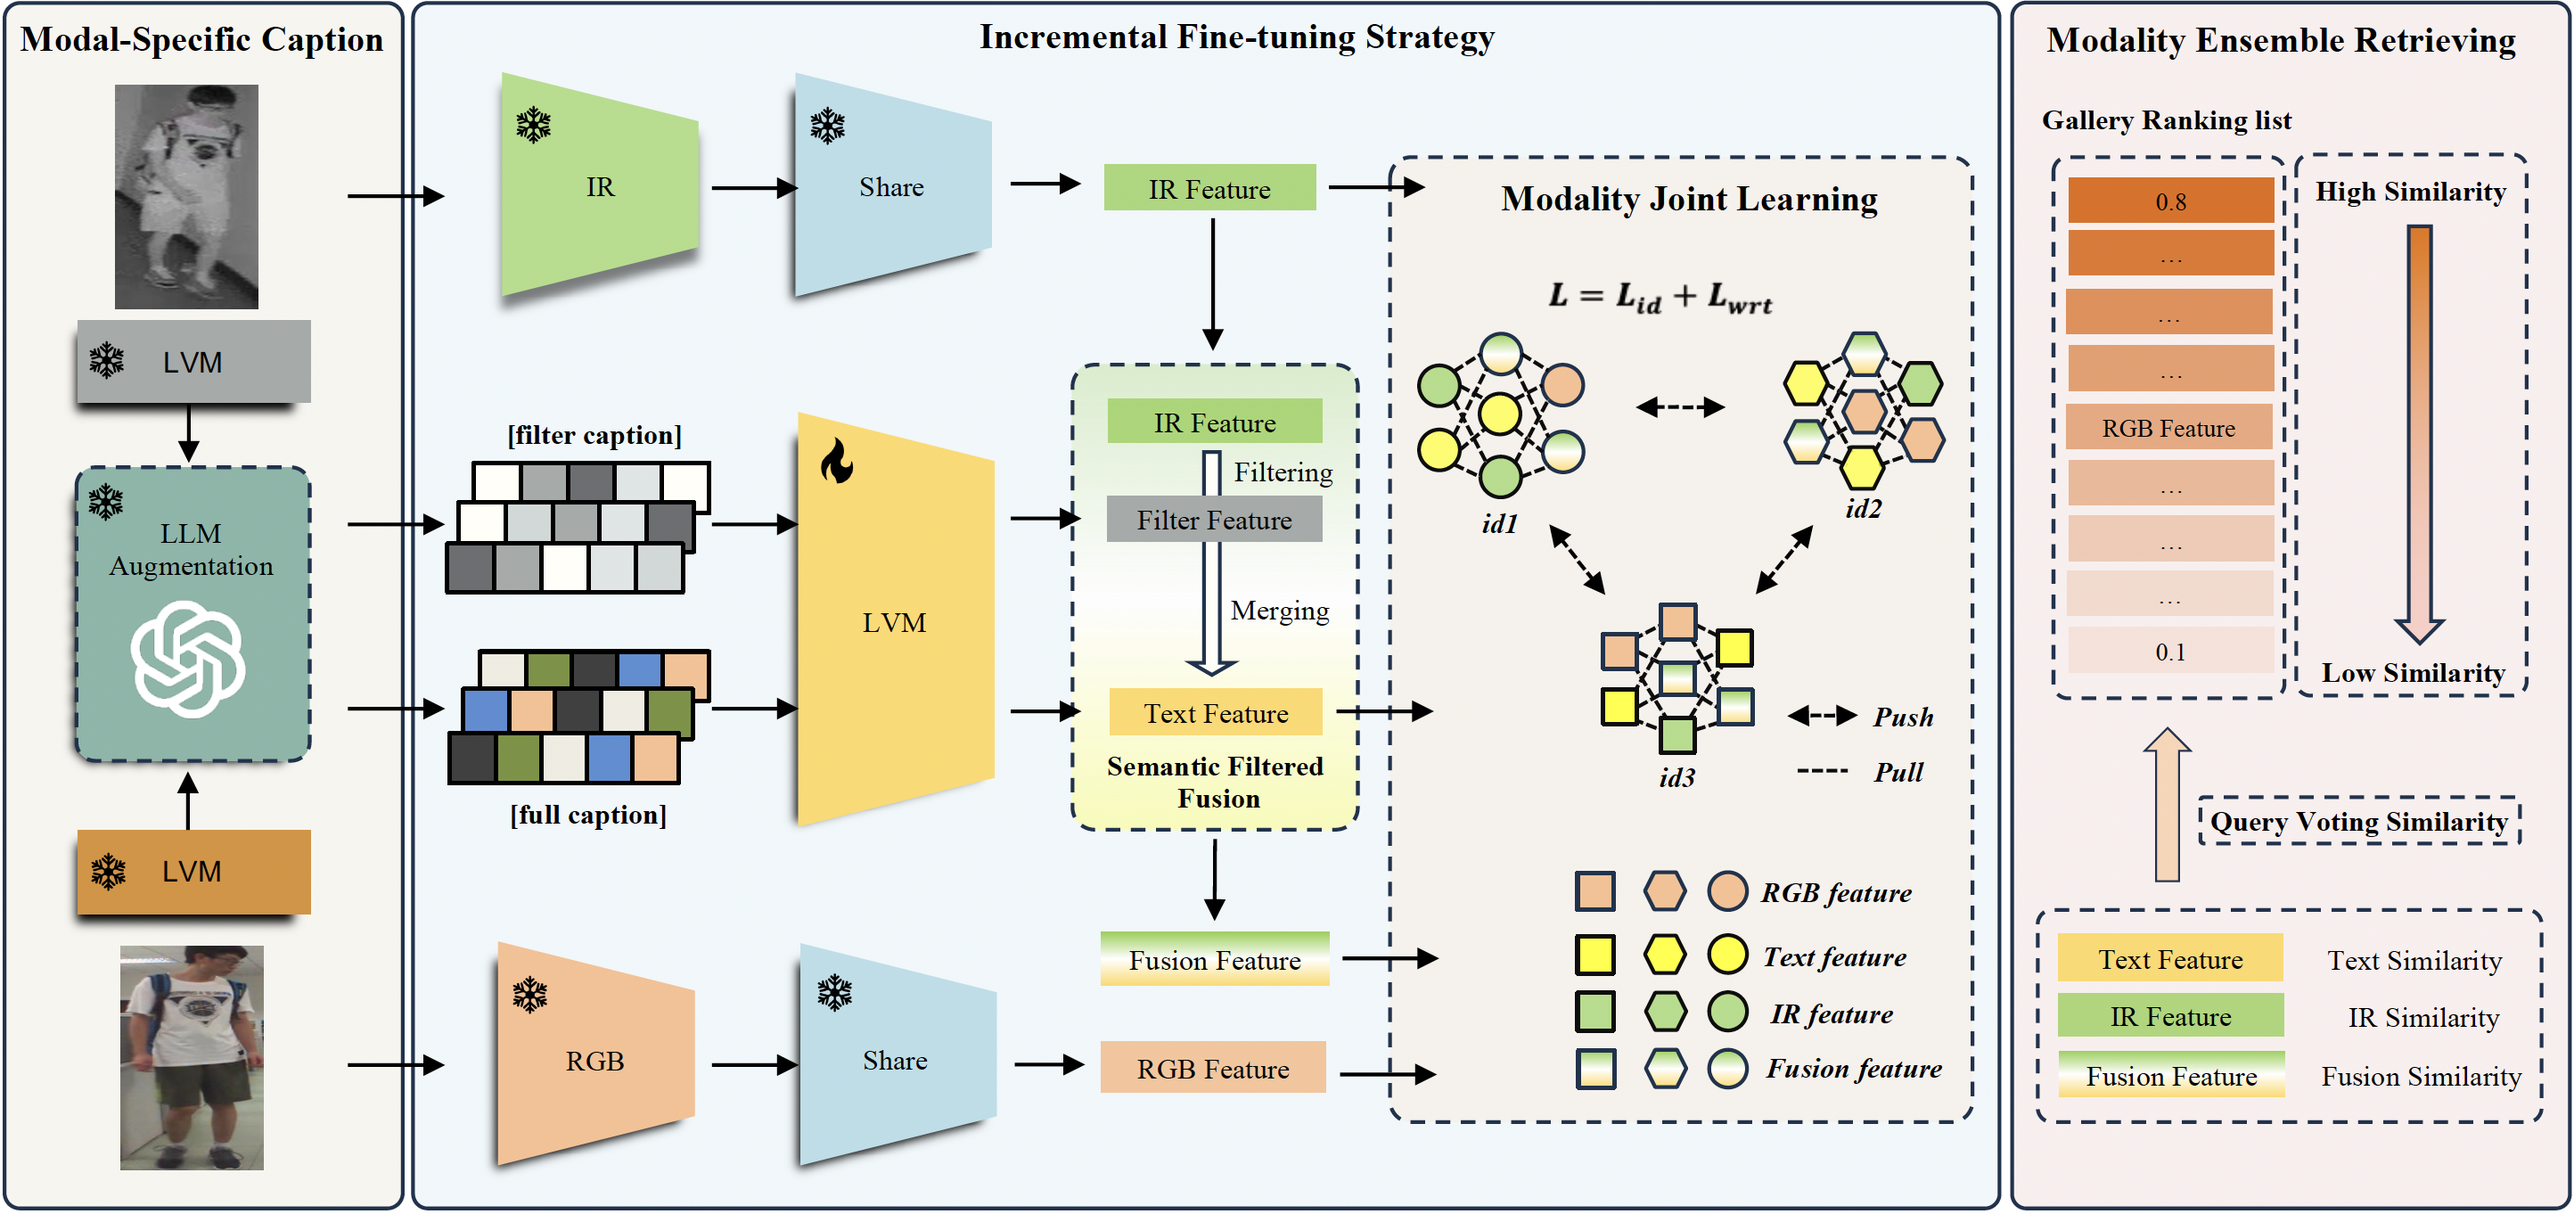
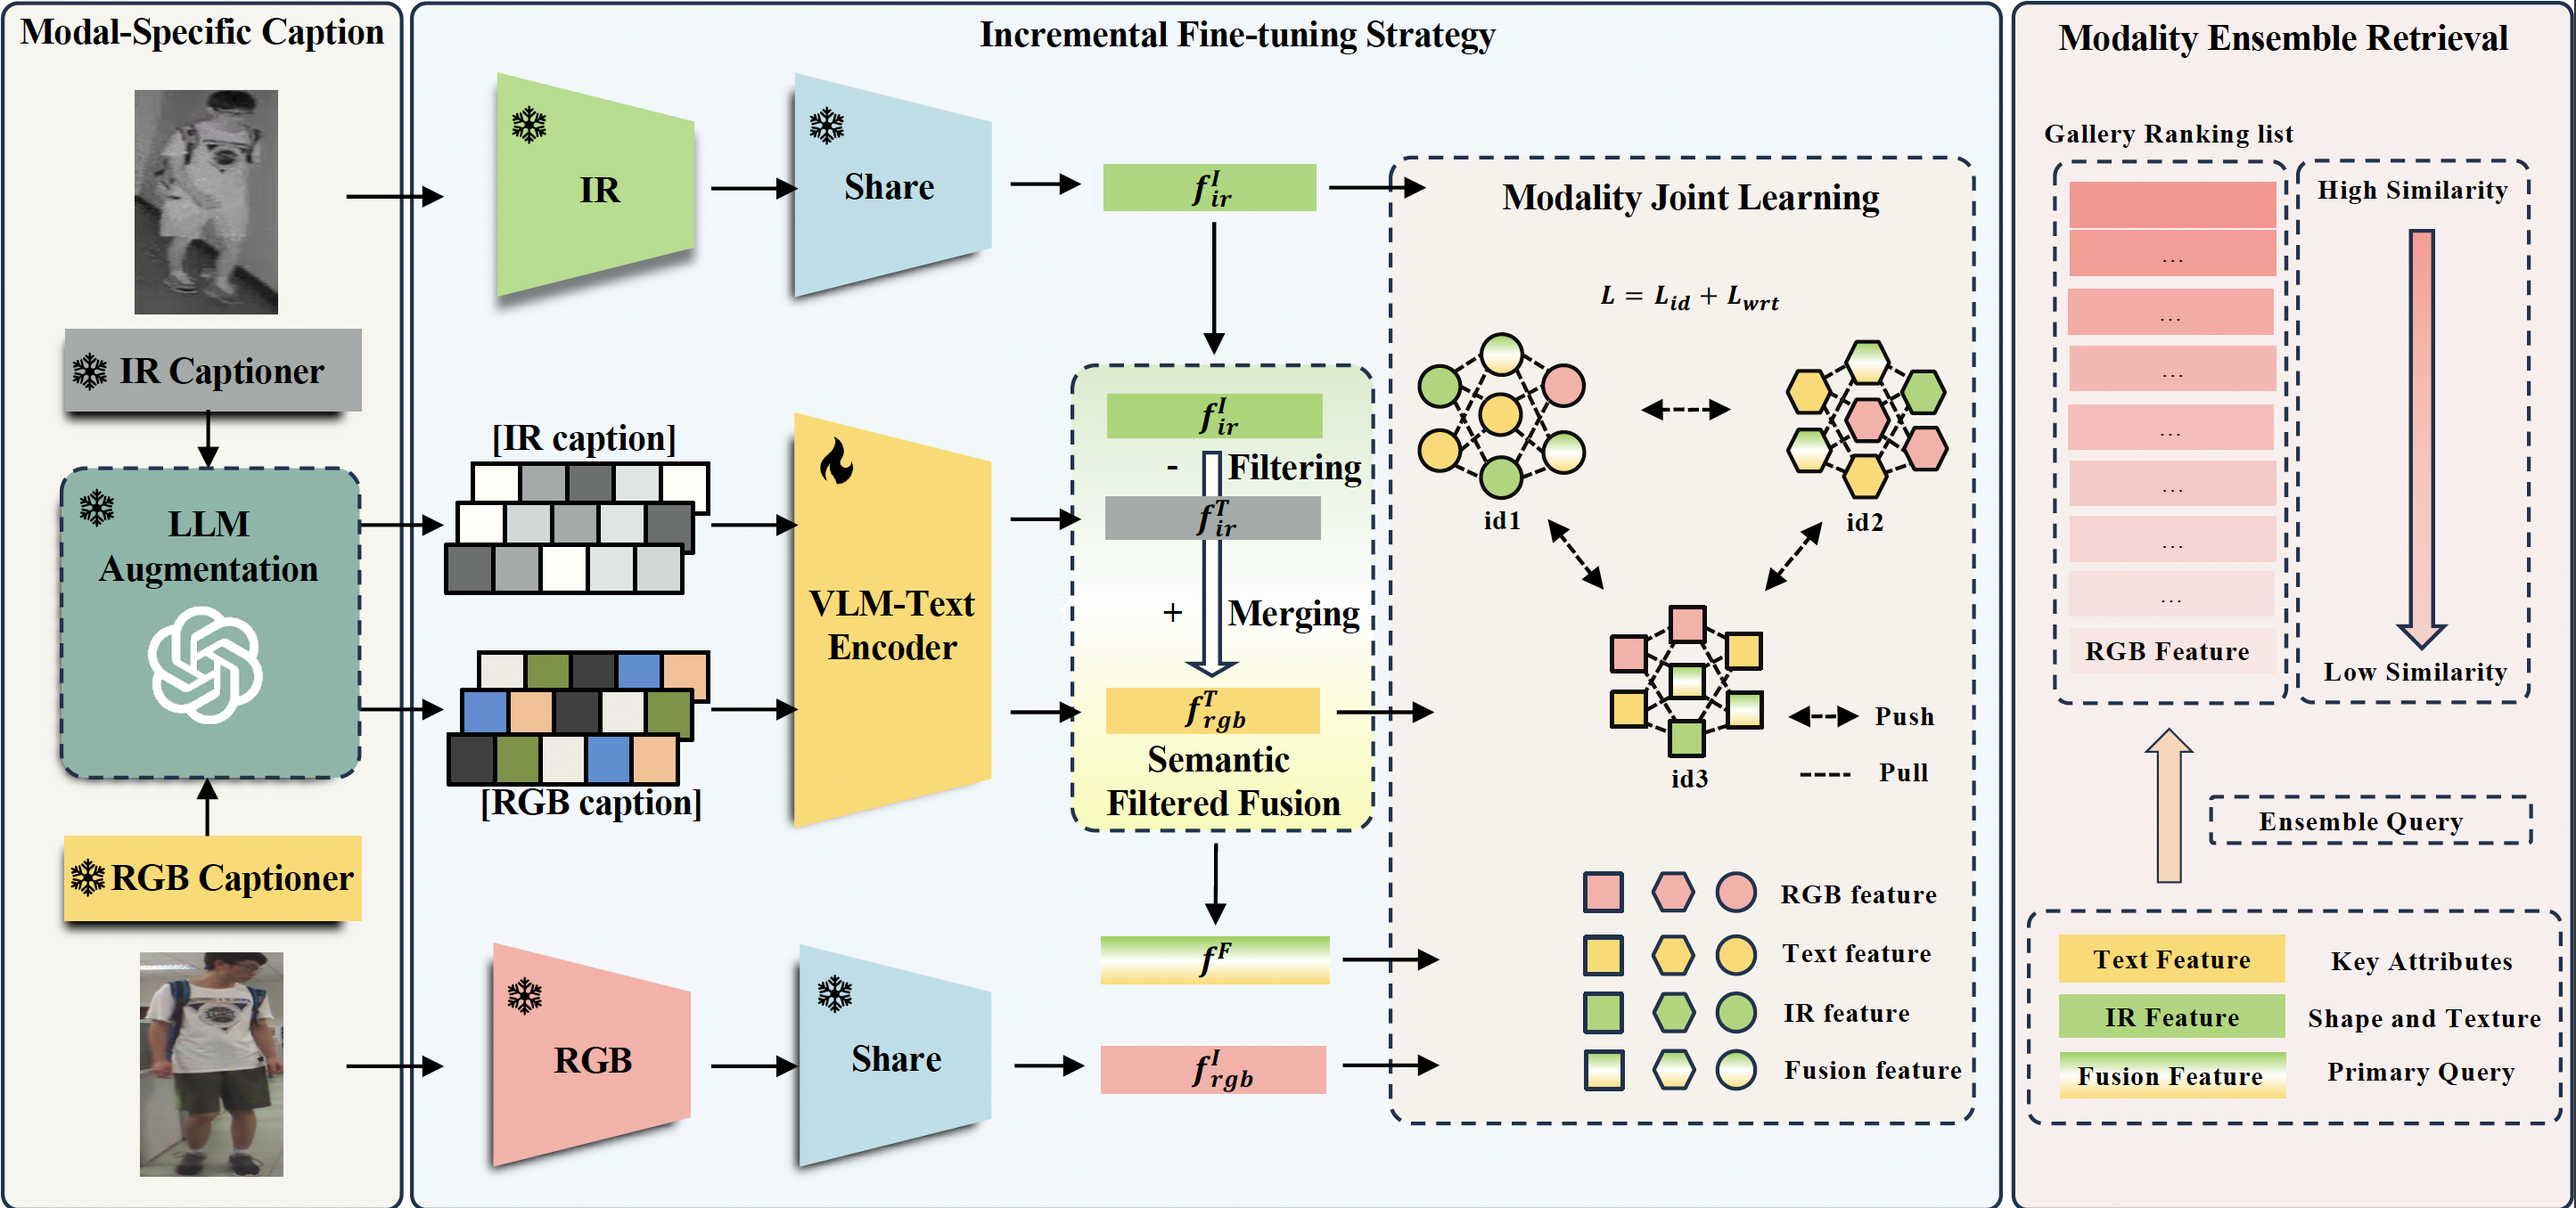
update the publication information about TVI-LFM in NeurIPS 2024

diff --git a/_publications/2024-05-22-Empowering-Visible-Infrared-Person-Re-Identification-with-Foundation-Models.md b/_publications/2024-05-22-Empowering-Visible-Infrared-Person-Re-Identification-with-Foundation-Models.md
@@ -1,12 +1,11 @@
 ---
-title: "Empowering Visible-Infrared Person Re-Identification
-with Foundation Models"
+title: "Empowering Visible-Infrared Person Re-Identification with Large Foundation Models"
 collection: publications
 permalink: /publications/2024-05-22-Empowering-Visible-Infrared-Person-Re-Identification-with-Foundation-Models
-excerpt: 'We propose a novel text-enhanced VI-ReID framework driven by Foundation Models (TVI-FM).'
-date: '2024-05-22'
-venue: ':  Submitted to NeurIPS'
-paperurl: 'https://whu-hzy.github.io/files/2024_NIPS_HZY_TVI_FM.pdf'
+excerpt: 'We propose a novel text-enhanced VI-ReID framework driven by Large Foundation Models (TVI-LFM).'
+date: '2024-10-29'
+venue: 'NeurIPS 2024'
+# paperurl: 'https://whu-hzy.github.io/files/2024_NIPS_HZY_TVI_FM.pdf'
 # citation: 'Your Name, You. (2009). &quot;Paper Title Number 1.&quot; <i>Journal 1</i>. 1(1).'
 ---
 <!-- <object data="../files/overview-framework.pdf" type="application/pdf" weight="700px">
@@ -15,12 +14,13 @@ paperurl: 'https://whu-hzy.github.io/files/2024_NIPS_HZY_TVI_FM.pdf'
     </embed>
 </object> -->
 <!-- 插入图片-->
+## The Overview of the proposed TVI-LFM
 <img src="../files/overview-framework.png" alt="overview-framework"/>
 
+## Idea of our method
+<img src="../files/problem.png" alt="overview-framework"/>
 
-Visible-Infrared Person Re-identification (VI-ReID) often underperforms compared to RGB-based ReID due to significant modality differences, primarily caused by the absence of detailed information in the infrared modality. The development of foundation models like Large Language Models (LLMs) and Language Vision Models (LVMs) motivates us to investigate a feasible solution to empower existing VI-ReID backbones with off-the-shelf foundation models. To this end, we propose a novel Text-enhanced VI-ReID framework driven by Foundation Models (TVI-FM). The basic idea is to enrich the representation of the infrared modality with textual descriptions automatically generated by LVMs. Specifically, we incorporate a pre-trained LVM to extract textual features from descriptions generated by two modal-specialized fine-tuned LVM captioners and augmented by LLM. To enrich infrared features with generated textual information, we use modality alignment capabilities of LVMs and LVM-Generated feature-level filters to create a preliminary fusion modality. This enables the text model to learn complementary features according to the infrared modality, ensuring semantic consistency between the fusion and visible modalities.
-Then, modality joint learning aligns features of all modalities, incrementally fine-tunes text encoder to adapt to frozen VI-ReID backbone, maintaining stability of overall semantic of text representations while refining text-enriched infrared representations, thus minimizing the domain gap between enriched infrared and visible modalities.
-Additionally, Modality Ensemble Retrieving is proposed to leverage complementary strengths of each query modality to improve retrieval performance and robustness. 
-Extensive experiments demonstrate that our method significantly improves retrieval performance on three expanded cross-modal re-identification datasets, paving the way for utilizing foundation models in downstream data-demanding tasks. The code will be released.
+## Abstract
+Visible-Infrared Person Re-Identification (VI-ReID) is a challenging cross-modal pedestrian retrieval task due to the lack of critical information in the infrared modality, such as color. Existing methods focus on mining modality-shared features but ignore the lack of information. The development of Large Language Models (LLM)s and Vision Language Models (VLM)s motivates us to explore a feasible solution to complement missing vital information with off-the-shelf foundation models. To this end, we propose a novel Text-enhanced VI-ReID framework driven by Large Foundation Models (TVI-LFM), consisting of Modal-Specific Caption (MSC), Incremental Fine-tuning Strategy(IFS), and Modality Ensemble Retrieval(MER). The basic idea is to enrich infrared representations with generated text, which is a cross-modality retrieval approach bolstered by heterogeneous textual descriptions. Specifically, to enrich the infrared modality with text, MSC employs LLM to augment VLM-generated textual descriptions. Meanwhile, IFS incorporates a pre-trained multi-modal VLM to extract text features, and incrementally fine-tunes it by aligning semantics across all modalities, minimizing the domain gap between generated texts and original visual images. This allows the text model to learn complementary features from the infrared modality while ensuring that text features maintain a stable semantic representation of overall pedestrian appearance. By leveraging text-visual alignment capability of fine-tuned VLM, the framework is able to create fusion modality with a semantic structure the same as the visible modality in a parameter-free manner. Additionally, MER leverages the complementary strengths of each query modality to form ensemble queries, further improving retrieval performance.
 
-<p class="wordwrap">Download <a href="https://whu-hzy.github.io/files/2024_NIPS_HZY_TVI_FM.pdf">here</a></p>
+<!-- <p class="wordwrap">Download <a href="https://whu-hzy.github.io/files/2024_NIPS_HZY_TVI_FM.pdf">here</a></p> -->
